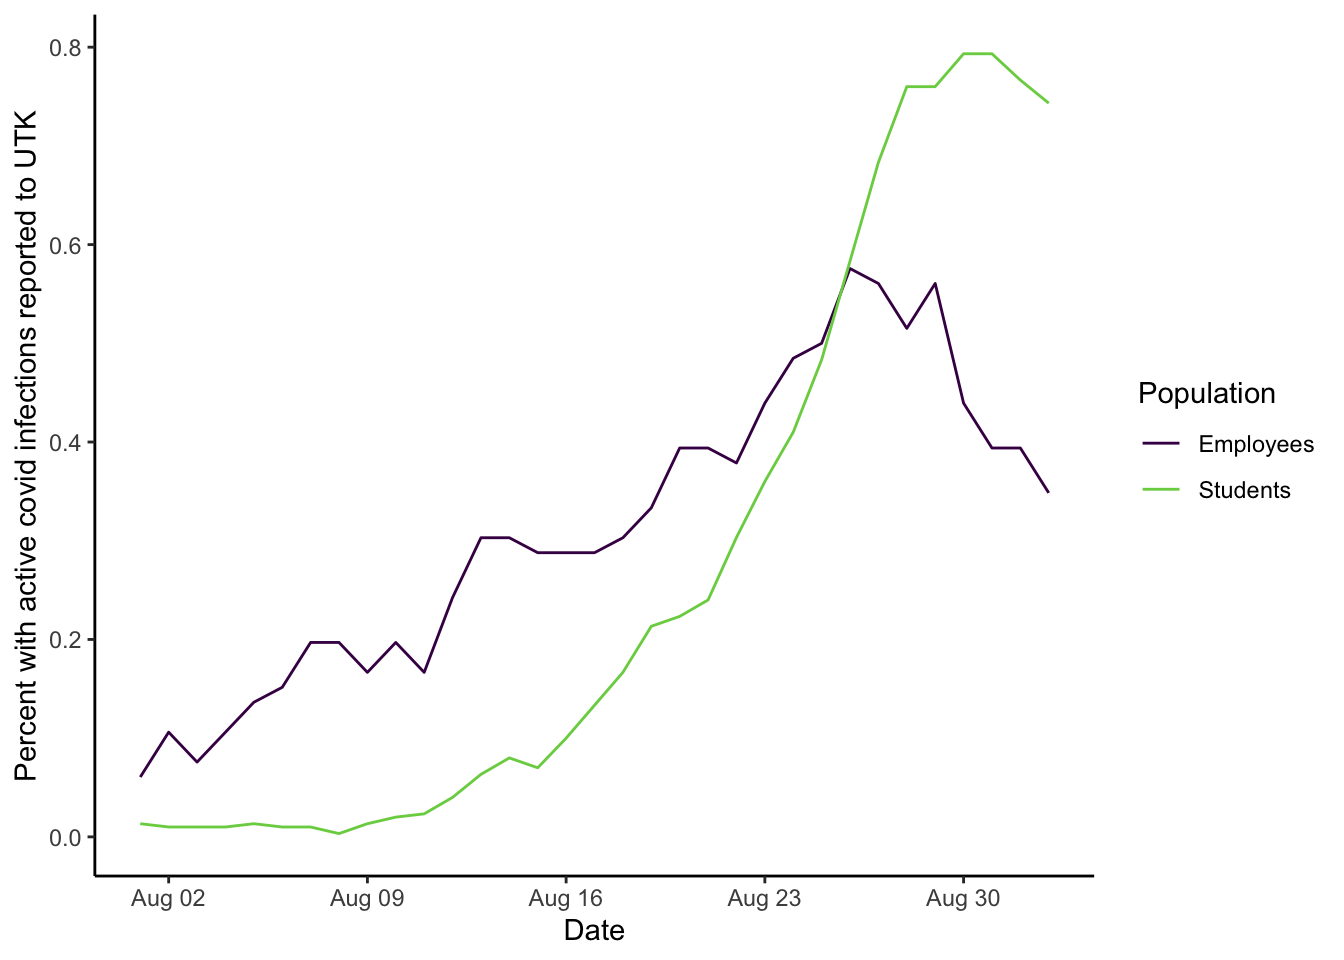
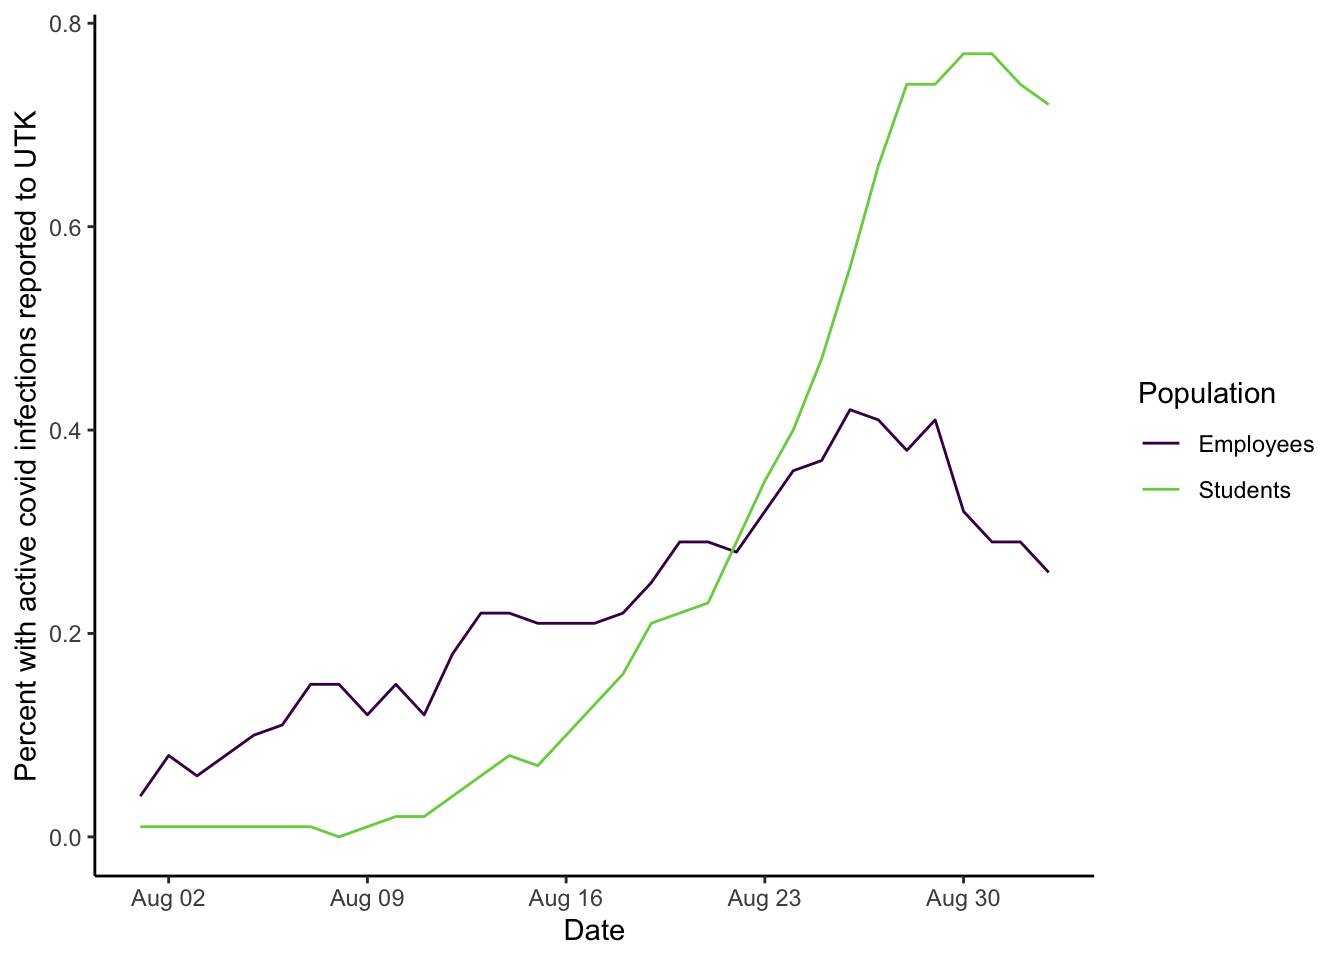
updated data

diff --git a/docs/utk_2021.html b/docs/utk_2021.html
@@ -321,6 +321,7 @@ $(document).ready(function () {
 </ul>
 <p>UTK is releasing <a href="https://www.utk.edu/coronavirus/guides/data-monitoring-and-contingency-options/">some data</a>, though less than some peers or UTK itself last academic year. I cannot find information on number of tests at the student health center, test positivity rate, saliva testing, or wastewater testing. There is no data on vaccination rate in the student body in general or in faculty or staff, nor on hospitalization or death rates. Students in university housing, and their close contacts who are unvaccinated, may have to seek alternate places to live at their own cost if they test positive for covid until the self-isolation period is over.</p>
 <p>The first plot shows the percentage of students and employees with active covid cases <em>known to UTK</em> at any one time. I am curious about the overall trend in each, as well as about which group has more reported cases at the moment. One guess could be that covid proportion might be higher among students (high density housing, generally lower vaccination rate for younger populations), but they might get tested at lower rates. Approximate total population size in each group comes from the Chancellor’s update of Aug. 19, 2021.</p>
+<p>Note that UTK’s data is released <a href="https://www.utk.edu/coronavirus/guides/data-monitoring-and-contingency-options/">here</a>, but it requires manual download; I am taking advantage of <a href="https://sites.google.com/view/utk-covid19/data?authuser=0">Alex Zukowski’s website</a> to get their compilation of the data.</p>
 <p><img src="utk_2021_files/figure-html/utk2021-1.png" width="672" /></p>
 <p>There is also data on those who have reported that they are self-isolating due to having covid (isolation) or being exposed (quarantine).</p>
 <p><img src="utk_2021_files/figure-html/utk2021isolations-1.png" width="672" /></p>
